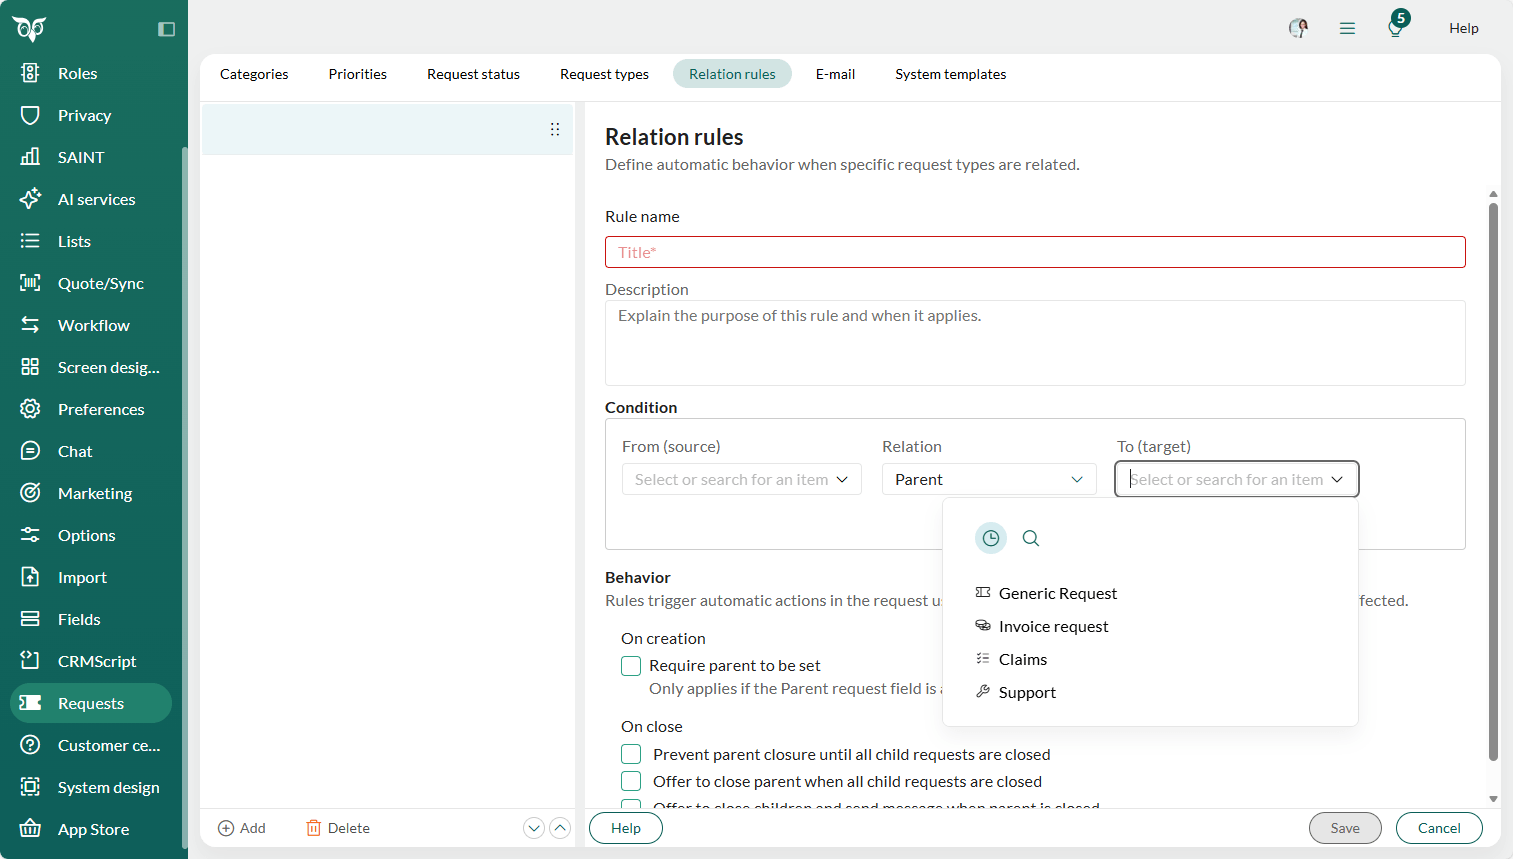
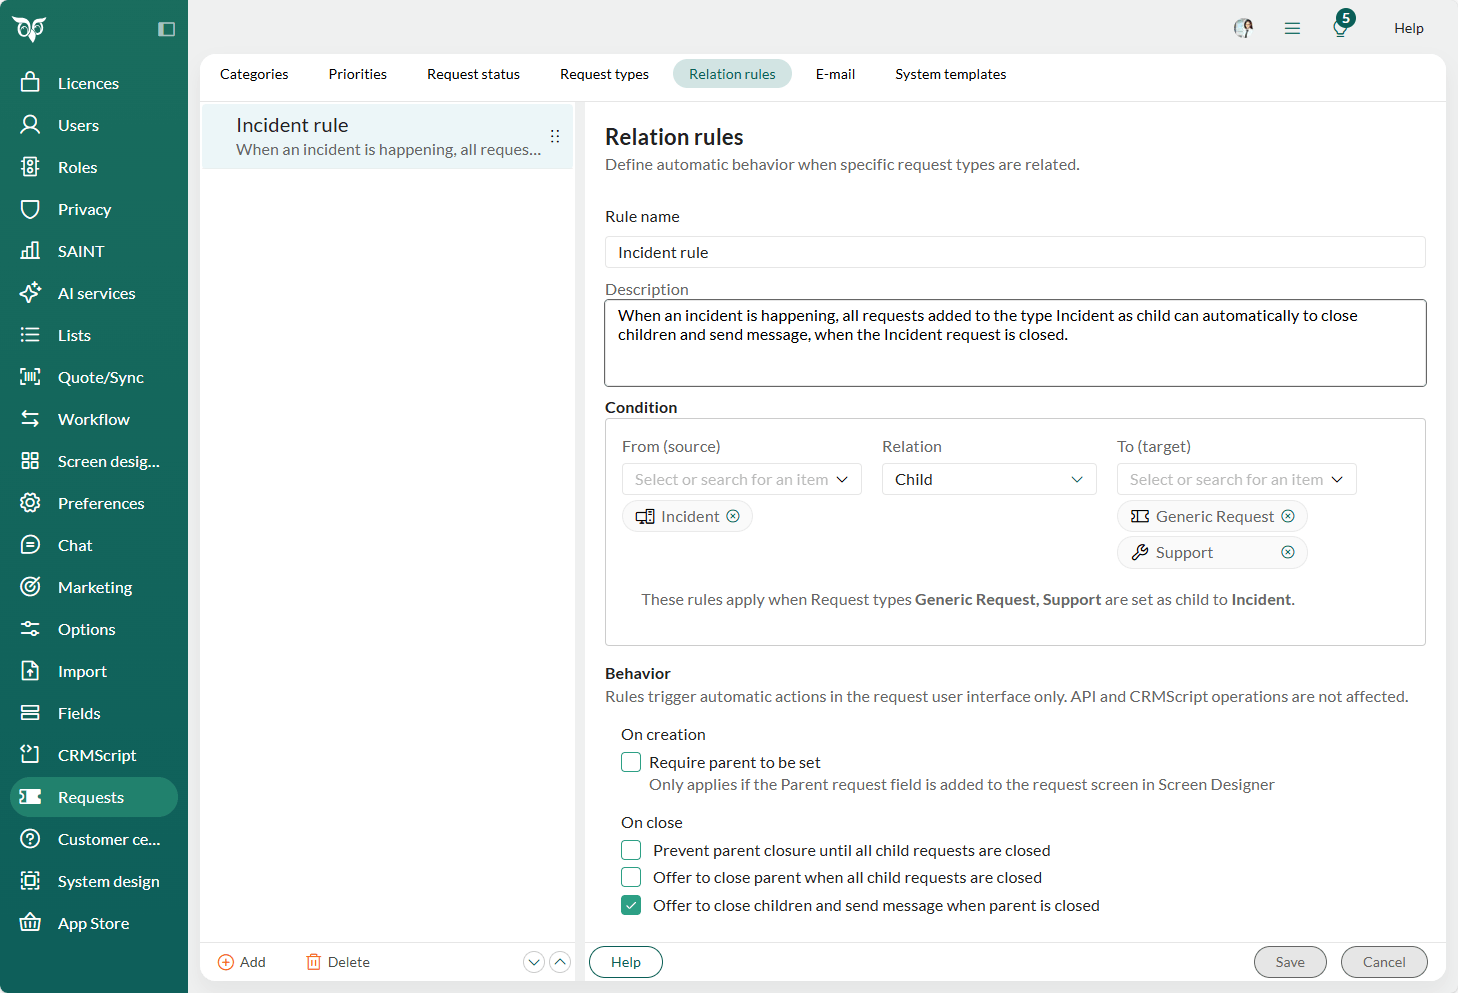
#2769 Updated Admin requests related rules

diff --git a/release-notes/11/admin/11.12-update.md b/release-notes/11/admin/11.12-update.md
@@ -8,29 +8,164 @@ date: 04.07.2026
 version: 11.12
 content_type: release-notes
 category: Admin
-license: # salesessentials, salespremium, serviceessentials, servicepremium, marketingessentials, marketingpremium (one or more user plans)
+license: # serviceessentials, servicepremium
 functional_right: # such as knowledge-base
 audience: person
 audience_tooltip: SuperOffice CRM
 ---
 
-# Service 11.12 update
+# Settings and maintenance 11.12 update
 
 ## Requests - Add Relation rules
 
-You can create hierarchical and side‑by‑side relationships (Related, Parent or Child), helping you understand dependencies, track progress and manage complex service scenarios with confidence. This gives you better control, improved visibility and a smoother way to work with interconnected requests.
+You can define relation rules to control how linked requests behave when using request relations. These rules are  for parent–child relationships in more complex service workflows.
 
-Read more about [how to use Related requests][2] in SuperOffice Service.
+Relation rules let you standardize how requests are connected and ensure consistent handling when requests are created or closed.
+What are relation rules?
 
-There are three default relations types that cannot be edited or deleted, but you can add additional request rules to support your workflow in SuperOffice Service.
+Relation rules apply when specific request types are linked together (for example, when one request is set as the parent of another). They allow you to define automatic behavior in the request UI, helping agents follow the intended workflow.
 
 ![Admin Requests - Add a new request rule and add the correct condition and behavior  -screenshot][img1]
 
-When creating a new relation rule, you can add conditions From (source) and To (target) of Request types with a specific Relation type. You also add different behavior of the rule like "require parent to be set" and "Prevent parent closure". The rule triggers automatic actions in the request user interface only.
+There are three default relations types (Parent, Child, Related) that cannot be edited or deleted, but you can add additional rules to support your workflow in SuperOffice Service.
 
---- assign it to a specific request type and define what type of relation it is. You also need to select the related request types it applies to. In addition, you can configure several on/off options on what should happen on closing related request. Add a clear description so your users easily understand how and when to use this relation.
+When creating a rule, you define:
+
+* Source request type (e.g. Child)
+* Relation type (Parent–Child)
+* Target request type (e.g. Parent)
+
+This lets you control behavior for specific combinations of request types.
+
+When creating a new relation rule, you can add conditions From (source) and To (target) of Request types with a specific Relation type, where the relation is either Parent or Child. You also add different behavior of the rule like "require parent to be set" and "Prevent parent closure". The rule triggers automatic actions in the request user interface only.
+
+This is to support complex scenarios like you have an incident in your system, and you get multiple requests coming in due to this incident. If you set a rule on the request type "Incident" as Parent for "Support requests", you have the ability to set on the "Offer to close children and send messages when parent is closed".
+
+This means that when the incident is fixed, you can send a message to all child requests with information and also close all the requests.
+
+In **SuperOffice Service** you can create hierarchical and side‑by‑side relationships (Related, Parent or Child) of requests, helping you understand dependencies, track progress and manage complex service scenarios with confidence. This gives you better control, improved visibility and a smoother way to work with interconnected requests.
+
+Read more about [how to use Related requests][2] in SuperOffice Service.
 
 Learn more about [how to set up your SuperOffice Service][1].
+
+---
+
+## Alt 2: Requests – Add relation rules
+
+You can define relation rules to control how linked requests behave when using request relations. These rules are used for parent–child relationships in more complex service workflows and help you standardise how connected requests are handled.
+
+### What are relation rules?
+
+Relation rules apply when specific request types are linked together (for example, when one request is set as the parent of another). They define automatic behaviour in the request UI, ensuring that agents follow the intended workflow.
+
+SuperOffice Service includes three default relation types—Parent, Child and Related—which cannot be edited or deleted. However, you can add additional rules to support your business processes.
+
+![Admin Requests - Add a new request rule and add the correct condition and behavior  -screenshot][img1]
+
+### Creating a relation rule
+
+When creating a rule, you specify:
+
+* Source request type (for example, Child)
+* Relation type (Parent–Child)
+* Target request type (for example, Parent)
+
+You can then define:
+
+* Conditions for From (source) and To (target) request types
+* Behaviour such as:
+  * Require parent to be set
+  * Prevent parent closure
+  * Offer to close children and send messages when parent is closed
+
+These rules trigger automatic actions only in the request user interface.
+
+### Example scenario
+
+If you have an "Incident" request type that acts as a Parent for multiple Support request types, you can apply a rule such as Offer to close children and send messages when parent is closed.
+When the incident is resolved, the system can automatically close all related child requests and notify the affected customers.
+
+### Why use relation rules?
+
+Relation rules help you:
+
+* Manage hierarchical or parallel relationships between requests
+* Understand dependencies
+* Track progress more effectively
+* Work efficiently with interconnected or complex service scenarios
+
+This gives you better control, improved visibility and a smoother workflow in SuperOffice Service.
+
+Read more about [how to use Related requests][2].
+
+Learn more about [setting up SuperOffice Service][1].
+
+---
+
+## Alt 3: Requests - Set up Relation rules
+
+You can define relation rules to control how linked requests behave when using request relations. These rules are  for parent–child relationships in more complex service workflows.
+
+Relation rules let you standardize how requests are connected and ensure consistent handling when requests are created or closed.
+
+### What are relation rules?
+
+Relation rules apply when specific request types are linked together (for example, when one request is set as the parent of another). They allow you to define automatic behavior in the request UI, helping agents follow the intended workflow.
+
+![Admin Requests - Add a new request rule and add the correct condition and behavior  -screenshot][img1]
+
+### How relation rules work
+
+When creating a rule, you define:
+
+* Source request type (e.g. Child)
+* Relation type (Parent–Child)
+* Target request type (e.g. Parent)
+
+This lets you control behavior for specific combinations of request types.
+
+Available rule options
+You can enable one or more of the following behaviors:
+
+* Require parent on creation
+* Forces users to set a parent request when creating a request of a specific type.
+
+**Example:**
+Ensure all Support requests are linked to a Master or Generic request.
+
+Prevent parent closure
+Prevents closing a parent request until all child requests are closed.
+
+### Use case
+
+Ensure all related work is completed before resolving the main request.
+
+#### Offer to close parent
+
+Prompts the user to close the parent request when all child requests are closed.
+
+#### Offer to close children with message
+
+When closing a parent request, users are prompted to:
+
+* Close all child requests.
+* Send a predefined message to each.
+
+### Typical use case
+
+When a root issue (like a bug or incident) is resolved, all related requests can be closed with consistent communication.
+
+### When should you use relation rules?
+
+Relation rules are advanced configuration and typically apply to more structured support setups.
+Most teams will just use request relations (Parent, Child, Related) without rules
+
+* Rules are mainly useful for standardization and automation in larger or more complex workflows
+* They are especially relevant in scenarios like:
+* Incident management (master ticket with linked requests)
+* Bug tracking across multiple customers
+* Structured support processes with strict dependencies
 
 <!-- Referenced links-->
 [1]: ../../../docs/en/request/admin/index.md
